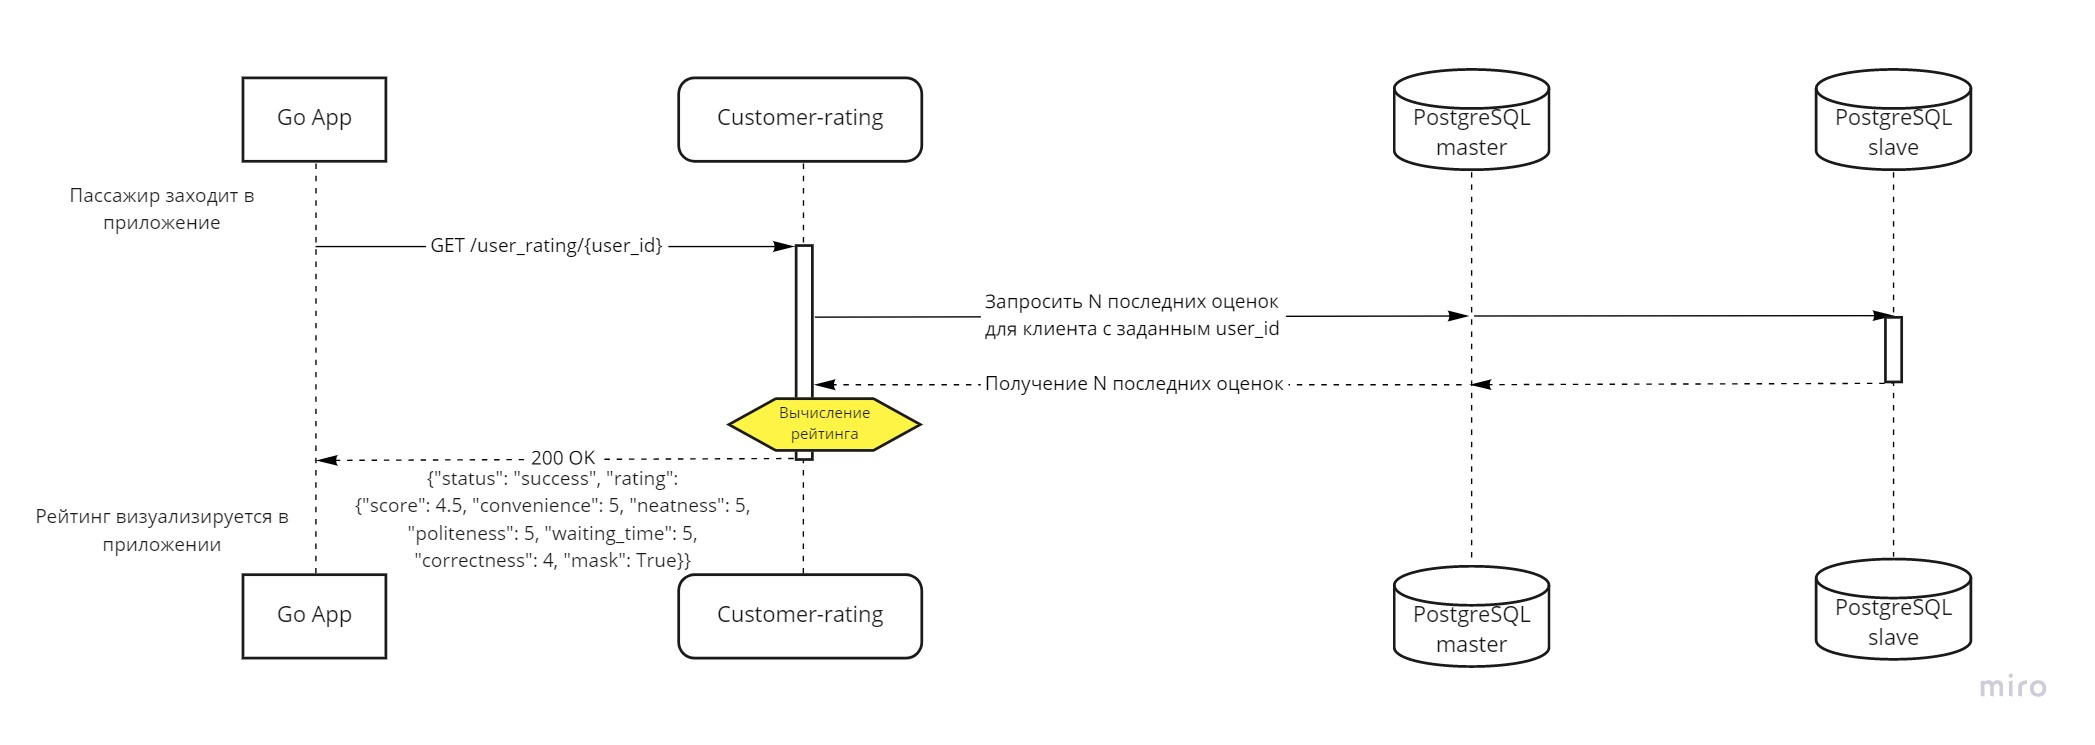
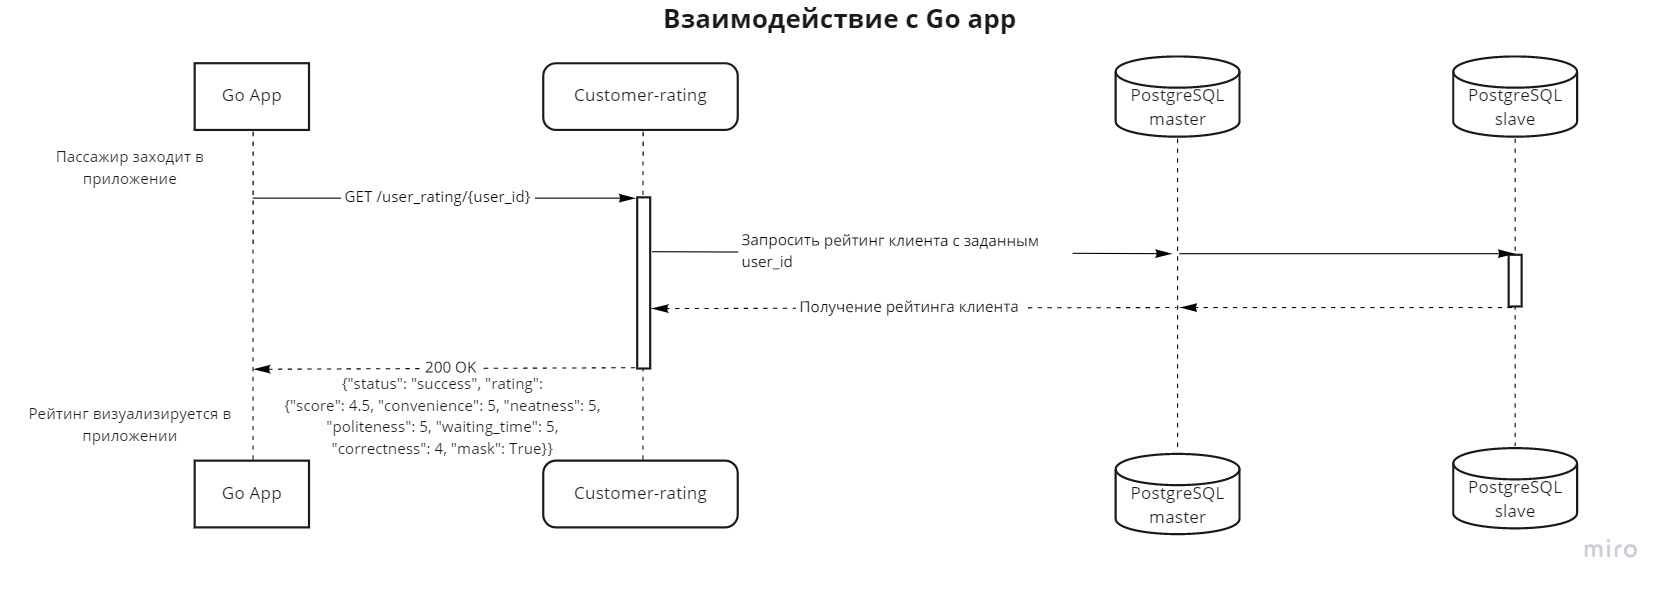
Updated ProApp-service-interaction diagram, table structure, added tests info and metrics.

diff --git a/vadim-leshchev/README.md b/vadim-leshchev/README.md
@@ -1,0 +1,103 @@
+# Задание №1. Архитектура фичи рейтинга пассажиров.
+### Описание
+
+Предлагается ввести пользовательский рейтинг для клиентов Яндекс Go такси на основе оценок, выставляемых водителями после
+поездки. Цель введения фичи — повлиять на поведение пассажиров и создать более благоприятную атмосферу как для водителей,
+так и для пассажиров. Добавление рейтинга пассажира позволит подтолкнуть людей к осознанному отношению к водителям и их 
+автомобилям. 
+
+### Гипотезы
+1. Поддержание собственного высокого рейтинга будет стимулировать пользователей такси выбирать более удобные точки для 
+   подачи автомобиля, сокращать время ожидания для водителя и подробнее указывать детали заказа.
+   
+2. В период пандемии важно соблюдать ношение средств защиты. Для пассажиров, пренебрегающих этим, существует "наказание"
+   в виде снижения рейтинга.
+   
+3. Возможность быть оцененным заставит пассажира быть вежливее к водителю и бережнее к его авто.
+
+### Этапы реализации
+* MVP - добавление оценки пассажира водителем после поездки путем выставления от 1 до 5 звёздочек,
+  расчет рейтинга по историческим данным поездок для каждого клиента, вывод общего рейтинга в клиентском приложении в 
+  виде средневзвешенной суммы — одного числа.
+  
+___
+* Расширенный вариант — помимо звёзд, у водителя есть возможность выбрать чем именно понравился или не понравился 
+  пассажир по следующим категориям:
+    * Удобство подачи
+    * Аккуратность к автомобилю
+    * Время ожидания
+    * Вежливость
+    * Подробность описания заказа 
+      
+Выбор выглядит как список иконок, каждую из которых можно отметить.
+Так же, имеется возможность отметить наличие индивидуальных средств защиты у пассажира.
+Пассажиру, помимо общего числового рейтинга, по тапу доступна небольшая статистика по его прошлым поездкам, например, 
+в виде _полярной диаграммы_, где изображены перечисленные выше категории и его рейтинг по каждой из них.
+
+___
+
+### Архитектура и сценарии
+
+Сервис реализуется микросервисом **customer-rating**, написанным на Python (выбран по принципу
+собственной экспертизы). Предусмотрены две ручки - POST на добавление оценки (если таковой еще нет с переданным OperationID), и GET на её получение.
+Оценки хранятся в PostgreSQL БД в таблице Evaluations следующего вида:
+
+|   OrderID  |   UserID |   OrderID  | Score | Convenience| Neatness | Politeness | Waiting_time | Correctness |  OperationID | MaskOn  | DateTimeFinished |
+| :--------: | :------: | :--------: | :---: | :--------: | :------: | :--------: | :----------: | :---------: |  :---------: |:-------:| :--------------: |
+|   11111    |  22222   |   33333    |   4   |    True    |   False  |    True    |    False     |     True    |    12345     |  True   | 2021-06-07 23:12:04 |
+|   44444    |  55555   |   66666    |   5   |    True    |   True   |    True    |    True      |     True    |    56789     |  False  | 2021-06-07 23:54:02 |
+
+Рейтинг хранится в табличке Ratings следующего вида: 
+
+|  UserID | AvgScore | Convenience| Neatness | Politeness | Waiting_time | Correctness | MaskAlert |  DateTimeGenerated  |
+|:------: | :---:    | :--------: | :------: | :--------: | :----------: | :---------: | :-------: | :-----------------: |
+|  22222  |   4.5    |     5.0    |    5.0   |    4.8     |      4.7     |     5.0     |   True    | 2021-06-07 23:12:04 |
+|  22222  |   5.0    |     5.0    |    5.0   |    5.0     |      5.0     |     5.0     |   True    | 2021-06-08 00:15:04 |
+
+База реплицируется.
+
+Диаграммы взаимодействия:
+![](./ProApp-service-interaction.jpg)
+
+---
+![](./GoApp-service-interaction.jpg)
+
+### API
+Ручка POST добавляет запись в таблицу с пришедшей в JSON'e оценкой пользователя, ручка GET берет N строк из таблицы,
+отсортированной по дате, и вычисляет средневзвешенный рейтинг по "звездным" (поле Score) оценкам. Наибольший вес имеет 
+самая свежая оценка, наименьший — самая старая, однако контролировать веса можно так же при помощи конфиг-файла.
+Подробнее смотреть в [customer-rating.yml](./customer-rating.yml)
+
+##### Про рейтинг
+В расширенном варианте так же вычисляется рейтинг по каждому из параметров "порядочности" пассажира. Предполагается некий
+базовый уровень рейтинга по каждому из параметров, который снижается в случае, когда водитель выставляет рейтинг <= 3 и
+выбирает один или несколько параметров. В случае, когда водитель ставит 4 или 5 и выбирает параметр — рейтинг по выбранным параметрам
+наоборот увеличивается. Если при оценке водитель не выбирает никакой параметр, рейтинг не изменяется.
+Таким образом пользователь будет понимать от чего именно зависит его рейтинг.
+
+Если пользователь часто (более трети раз за последние N поездок) ездит без средств индивидуальной защиты, то в респонсе 
+отдается флаг {"mask": True}, который выводит в пользовательском аппе сообщение о необходимости носить средства защиты.
+При частом пренебрежении (более половины последних поездок) средствами защиты, может снижаться общий "звездный" рейтинг.
+Для части фичи, которая фиксирует ношение маски, предусматривается отдельный рубильник, применяемый когда пандемия закончится.
+
+
+### Тесты
+Код покрывается юнит-тестами на этапе разработки. Внимательно тестируется вычисление общего и отдельного рейтинга по категориям, 
+корректируются веса. Далее в локальной среде выполняется интеграционное, E2E и нагрузочное тестирование. 
+В тестовой среде проводится ручное тестирование, в результате получаем загруженность ядер и выявляем необходимое количество инстансов сервиса.
+В продакшене работа проверяется на устойчивость при отказе дата-центра.
+Внимание уделить случаю, когда для пассажира еще не оценена ни одна поездка.
+
+### Выкатка и метрики
+Пользовательская часть отображения рейтинга постепенно выкатывается на команду разработки (предварительно отображается 
+искусственный рейтинг). Далее выкатывается функционал для водителей, выбирается контрольная группа для А/Б тестирования среди пассажиров.
+Еще можно провести дополнительный А/Б эксперимент для водителей: контрольные группы равномерно выбираются среди водителей основных категорий поездок
+(эконом, комфорт и комфорт+), с целью оценивания влияния пользовательского рейтинга на отмену заказа со стороны водителя.
+Желательно, чтобы в группе имелись как активные пользователи такси, так и те, кто ездит редко.
+Полезность предлагается оценивать по следующим метрикам:
+* Время ожидания пассажира водителем для конкретного пассажира из контрольной группы
+* Количество поездок пассажира
+* Процент оцененных водителем заказов (если фича будет неудобна для водителей, они часто будут скипать выставление оценки)
+* Средняя оценка, выставляемая водителем (поможет понять задумывается ли водитель об оценке пассажира, или ставит всем подряд пятерки)
+* Количество отмен заказов водителем (если водителю назначается низкорейтинговый пассажир, возможно он не захочет его везти)
+
